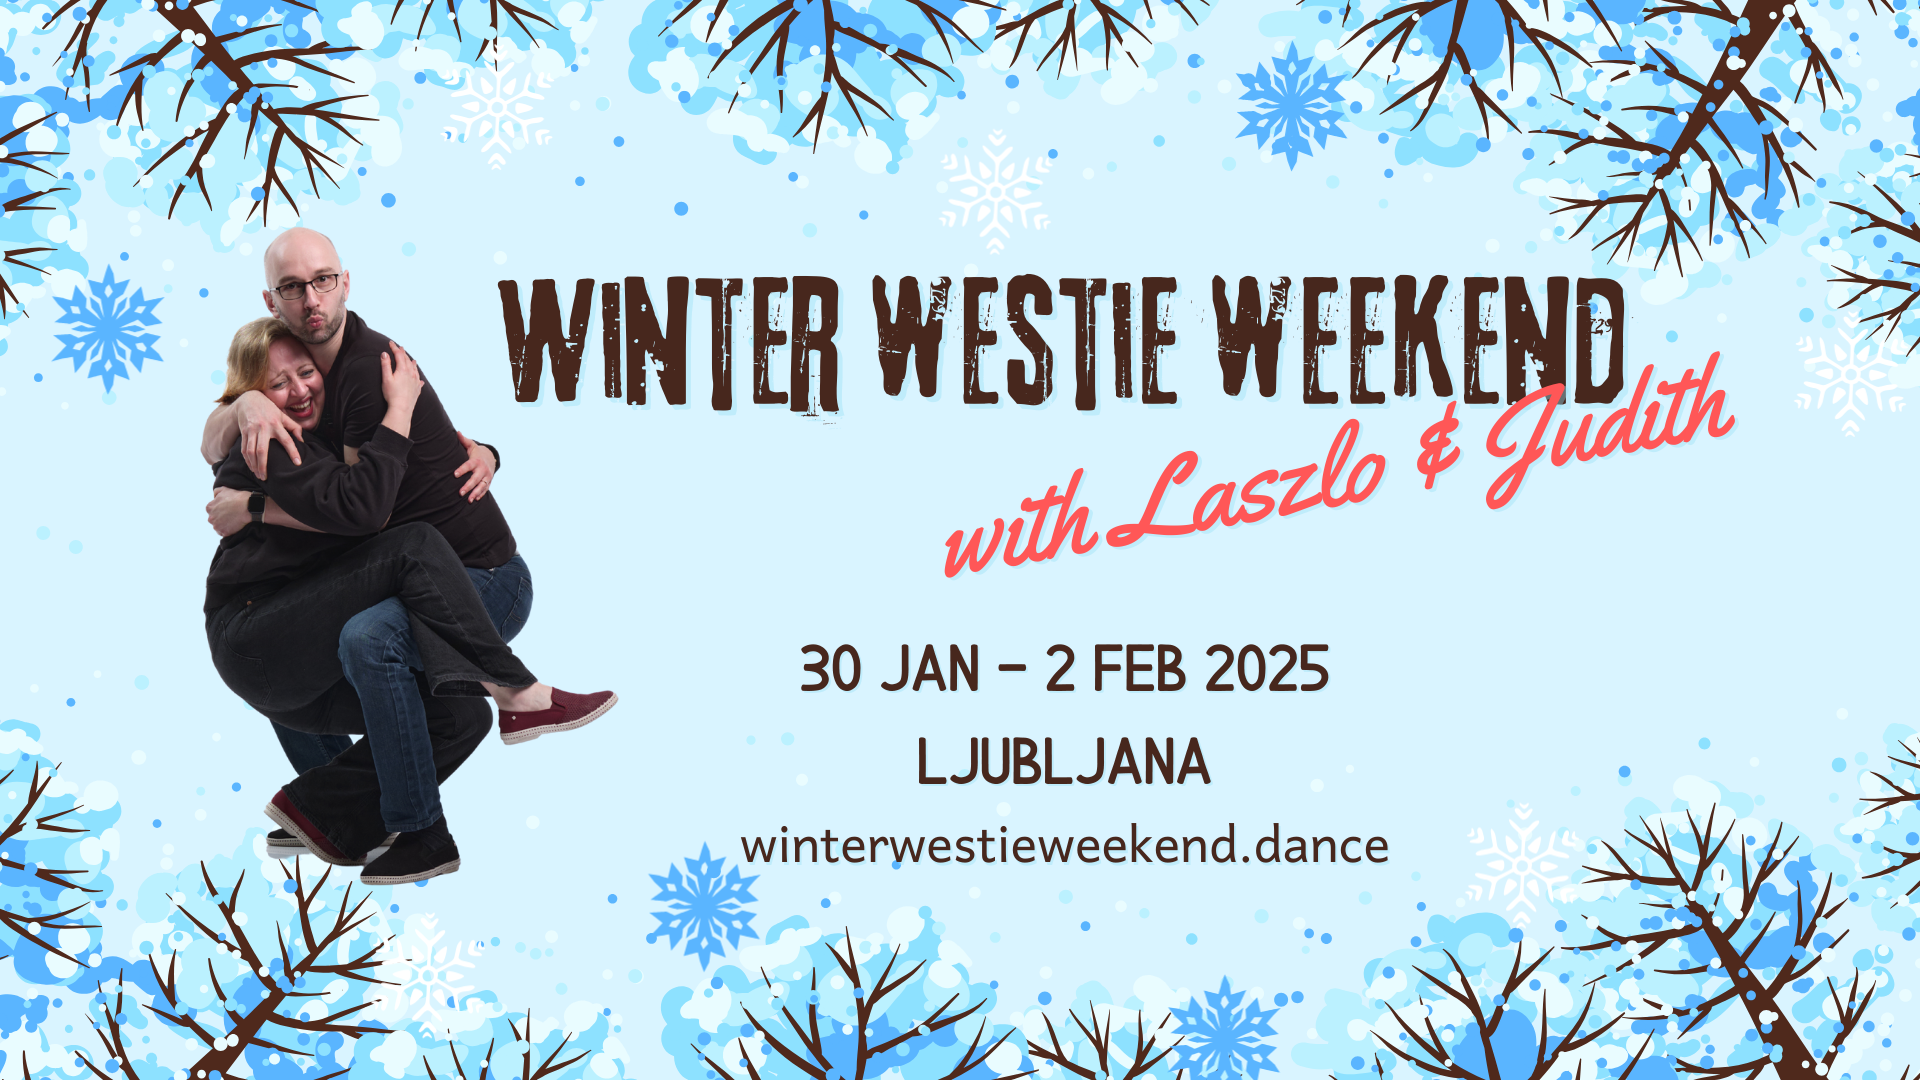
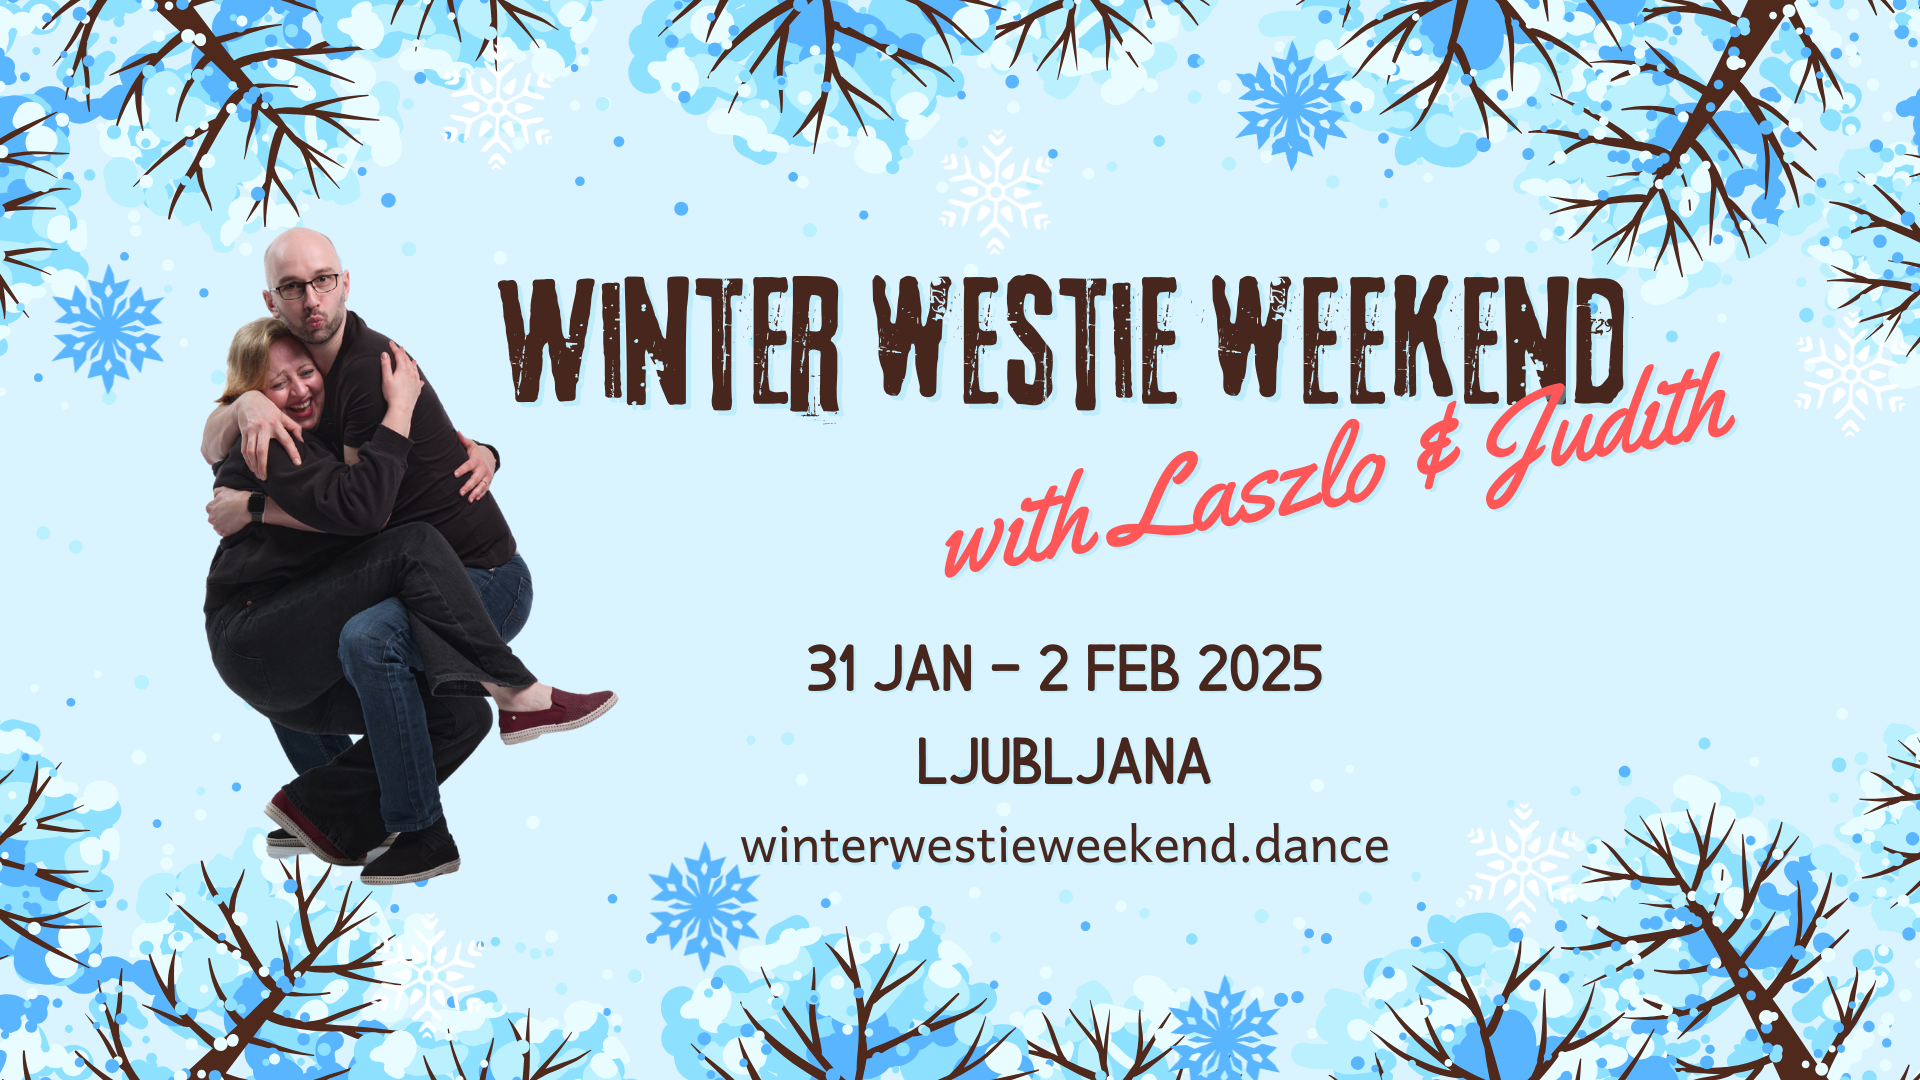
open registration

Changed region(s): [[0.4062, 0.5806, 0.6875, 0.6417]]

diff --git a/src/i18n/si.ts b/src/i18n/si.ts
@@ -2,7 +2,7 @@ const si = {
   event: {
     name: "Winter Westie Weekend",
     location: "Ljubljana",
-    date: "16. - 18. februar 2024",
+    date: "31. 1. - 2. 2. 2024",
     welcomeText: "Pridruži se!",
     tba: "Več informacij kmalu.",
   },
@@ -11,7 +11,7 @@ const si = {
     email: "wcsslo.wixsite{'@'}gmail.com",
   },
   urls: {
-    facebook: "https://www.facebook.com/events/758279966129500",
+    facebook: "https://www.facebook.com/events/916869680320633",
     instagram: "",
   },
   home: {
@@ -89,7 +89,7 @@ const si = {
       description: "Program je okviren in se lahko še spremeni.",
       days: [
         {
-          title: "Petek, 16. februar",
+          title: "Petek, 31. januar",
           items: [
             {
               time: "20.00 - 21.00",
@@ -107,7 +107,7 @@ const si = {
           ],
         },
         {
-          title: "Sobota, 17. februar",
+          title: "Sobota, 1. februar",
           items: [
             {
               time: "12.00 - 13.00",
@@ -142,7 +142,7 @@ const si = {
           ],
         },
         {
-          title: "Nedelja, 18. februar",
+          title: "Nedelja, 2. februar",
           items: [
             {
               time: "12.00 - 13.00",

diff --git a/src/components/pages/Home.vue b/src/components/pages/Home.vue
@@ -22,13 +22,13 @@ export default {
       <h2>{{ $t('event.location') }}</h2>
       <h2>{{ $t('event.date') }}</h2> -->
       <h2 class="margin-0">{{ $t("event.welcomeText") }}</h2>
-      <h2>{{ $t("registration.opensSoonText") }}</h2>
-      <!-- <router-link
+      <!-- <h2>{{ $t("registration.opensSoonText") }}</h2> -->
+      <router-link
         :to="`/${$store.state.lang}/registration`"
         class="btn btn-primary"
       >
         {{ $t("registration.pageTitle") }}
-      </router-link> -->
+      </router-link>
     </div>
   </section>
   <section id="video-collage">
@@ -67,7 +67,7 @@ export default {
 }
 
 #landing {
-  background-color: var(--accent-2);
+  background-color: var(--white);
   color: var(--dark-1);
   width: 100vw;
   display: flex;
@@ -95,7 +95,7 @@ export default {
   align-items: center;
   overflow: hidden;
   position: relative;
-  color: var(--light);
+  color: var(--white);
 }
 
 .video-collage-content > a > h3 {

diff --git a/src/components/Header.vue b/src/components/Header.vue
@@ -123,13 +123,18 @@ export default {
           {{ $t("location.pageTitle") }}
         </router-link>
       </div>
-      <!-- <div class="flex-item menu-item" 
-         :class="{ 'active': isMobileMenuOpen }"
-         @click="closeAllMenus()">
-      <router-link :to="`/${$store.state.lang}/registration`" class="menu-item-link">
-        {{ $t('registration.pageTitle') }}
-      </router-link>
-    </div> -->
+      <div
+        class="flex-item menu-item"
+        :class="{ active: isMobileMenuOpen }"
+        @click="closeAllMenus()"
+      >
+        <router-link
+          :to="`/${$store.state.lang}/registration`"
+          class="menu-item-link"
+        >
+          {{ $t("registration.pageTitle") }}
+        </router-link>
+      </div>
       <div
         id="social-icons"
         class="menu-item flex-container flex-container-row"

diff --git a/src/i18n/en.ts b/src/i18n/en.ts
@@ -2,7 +2,7 @@ const en = {
   event: {
     name: "Winter Westie Weekend",
     location: "Ljubljana",
-    date: "16 - 18 February 2024",
+    date: "31 Jan - 2 Feb 2024",
     welcomeText: "Join the fun!",
     tba: "To be announced.",
   },
@@ -11,7 +11,7 @@ const en = {
     email: "wcsslo.wixsite{'@'}gmail.com",
   },
   urls: {
-    facebook: "https://www.facebook.com/events/758279966129500",
+    facebook: "https://www.facebook.com/events/916869680320633",
     instagram: "",
   },
   home: {

diff --git a/src/components/pages/Registration.vue b/src/components/pages/Registration.vue
@@ -7,7 +7,7 @@ export default {};
     <h1>{{ $t("registration.pageTitle") }}</h1>
     <!-- <p>{{ $t('event.tba') }}</p> -->
     <p class="center-text" v-html="$t('registration.registrationInfoText')"></p>
-    <iframe src="https://forms.gle/RjPzwb3ptf4ZCtVZ8">{{
+    <iframe src="https://forms.gle/WgEWsT13ZwKhFucA7">{{
       $t("registration.loading")
     }}</iframe>
   </section>
